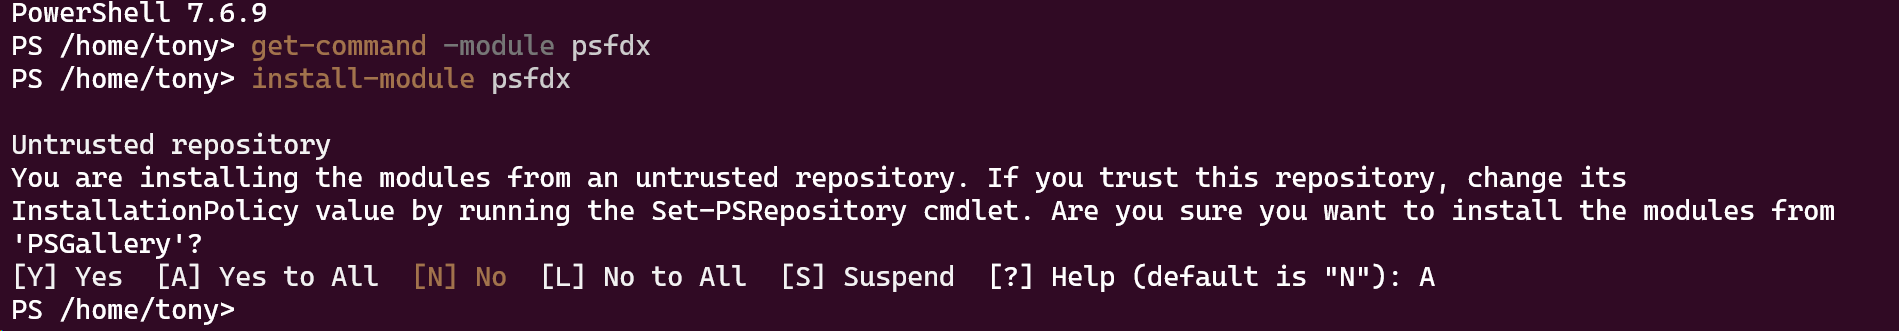
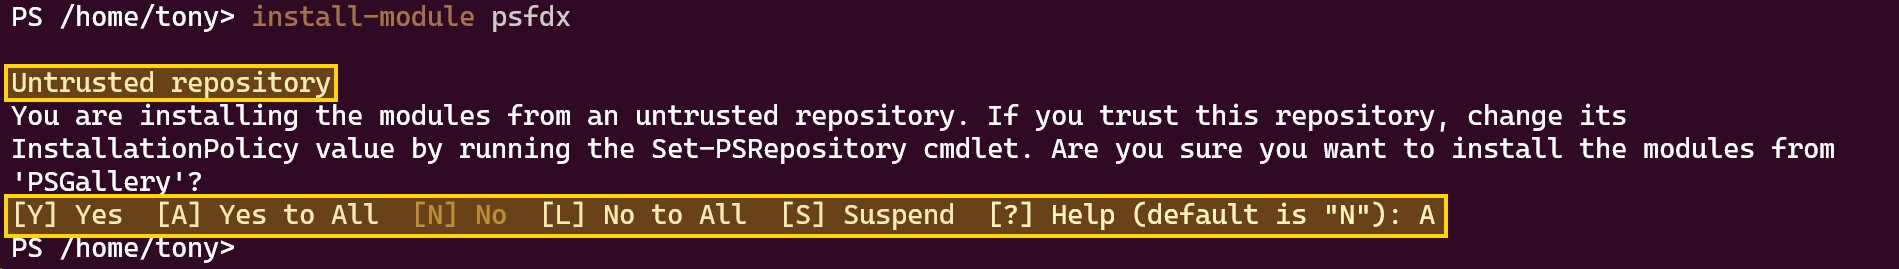
docs: shorten the README install steps and highlight the trust prompt (#168)

Changed region(s): [[0.0, 0.2082, 0.9631, 0.9814], [0.0, 0.0, 0.3418, 0.1784]]

diff --git a/README.md b/README.md
@@ -11,22 +11,27 @@ https://github.com/PowerShell/PowerShell/releases
 
 ## 2. Install psfdx
 
-One package, `psfdx`, holds every module. It works in Windows PowerShell 5.1 and PowerShell 7 on Windows, Linux and macOS:
 ```
 Install-Module psfdx
-Import-Module psfdx
 ```
-`Import-Module psfdx` loads the cmdlets of every module below, so you don't import `psfdx-logs`, `psfdx-metadata` and the others separately.
 
-Update later with `Update-Module psfdx`. The package is at https://www.powershellgallery.com/packages/psfdx.
-
-The first time you install from the Gallery, PowerShell asks whether to install from the untrusted repository 'PSGallery'. That is normal PowerShell behaviour for any package from the Gallery, not something specific to psfdx. Answer `Y` (yes) or `A` (yes to all):
+PowerShell asks about the untrusted PSGallery repository. Answer `Y` or `A`:
 
 ![Install-Module psfdx asks about the untrusted PSGallery repository](images/psfdx-install-trust-prompt.png)
 
-To stop being asked, run `Set-PSRepository -Name PSGallery -InstallationPolicy Trusted`.
+## 3. See the commands
 
-## 3. Salesforce CLI
+```
+Get-Command -Module psfdx
+```
+
+## 4. Update psfdx
+
+```
+Update-Module psfdx
+```
+
+## 5. Salesforce CLI
 
    You can install the Salesforce CLI by running:
 
